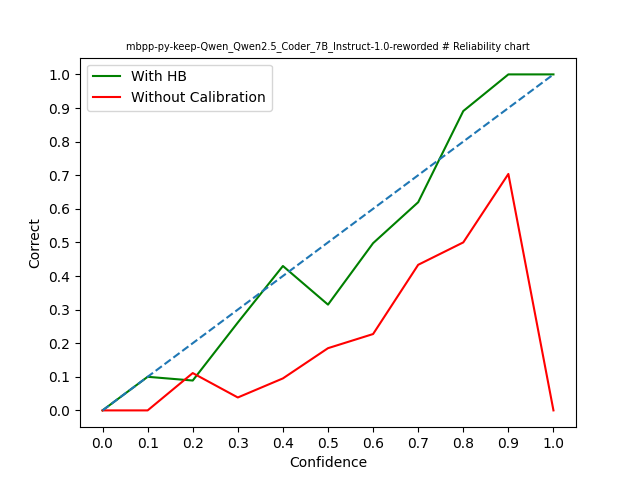
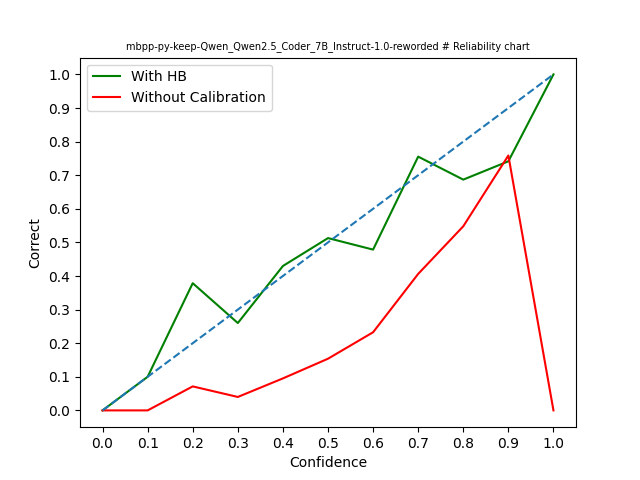
Optimized Histogramm binning with seperate class Added the option to save HB results in a table/file Score differences are saved now

diff --git a/histogramm_binning.py b/histogramm_binning.py
@@ -5,9 +5,9 @@ import argparse
 from pathlib import Path
 import os
 from sklearn.model_selection import train_test_split
-from tools import calibration_scores
-from tools import data
-from tools import create_charts
+from tools import data, create_charts, binning
+from tools.hb_calibration import hb_calibration
+from tabulate import tabulate
 
 BASE_DIR    = "/data/stud/2025-MA-kuschnereit/masterarbeit/"
 CHART_DIR = BASE_DIR+"charts_multipl_e/"
@@ -15,27 +15,9 @@ CHART_DIR = BASE_DIR+"charts_multipl_e/"
 binning_type = 'linear'
 
 DEBUG = False
-OUTPUTS = True
+OUTPUTS = False
 
 np.seterr(divide='ignore', invalid='ignore')
-
-def create_unform_grid(m):
-    return np.round(np.arange(0.0, 1+(1/m), 1/m), 2)   
-
-
-def round_model_to_grid(probs, grid):
-    # Round model to the grid (assign values to bin edges)
-    bin_assignment = []    
-
-    for f_x in probs:             
-        bin_assignment.append(np.round(grid[np.argmin(np.abs(f_x - grid))], 2))         
-    
-    return np.array(bin_assignment)
-
-def calculate_correctnes_per_bin(probs, y, assignments, grid):
-    prob_correct = np.array([np.divide(len(probs[(assignments == i) & (y == 1)]), len(probs[(assignments == i)])) for i in grid])
-    prob_correct[np.isnan(prob_correct)] = 0
-    return prob_correct
 
 def main():
     parser = argparse.ArgumentParser()
@@ -43,7 +25,7 @@ def main():
         "dirs", type=str,  help="Directories with results. ", nargs="+")
     args = parser.parse_args()
 
-    results, temperature, top_p = data.load_multipl_e_run(args.dirs[0])
+    table_print = []
 
     run_dirs = [x[0] for x in os.walk(args.dirs[0])]
     run_dirs.sort()
@@ -52,14 +34,22 @@ def main():
         # if main dir is in list just continue
         if d == args.dirs[0]:
             continue
-
+        run_entry = []
         # Get run name
         run = d.split("/runs/", 1)[1]
+        run_entry.append(run)
+
+
+        # uniform grid 1/m
+        uniform_grid = binning.create_unform_grid(10)   
+        
+        # Create calibration object
+        hb = hb_calibration(uniform_grid, OUTPUTS, DEBUG)
 
         # load the data from the run directory
         run = run.replace('/', '')
         results, temperature, top_p, num_samples = data.load_multipl_e_run(d)
-
+        run_entry.append(num_samples)
         if OUTPUTS: print(f"\nRun: {run}")
         if OUTPUTS: print(f"Temperature: {temperature}")
         if OUTPUTS: print(f"Num Problems: {num_samples}")
@@ -74,34 +64,33 @@ def main():
         if DEBUG: print(f"Training values: {train_probs}")
         if DEBUG: print(f"Test values: {test_probs}")
 
-        # uniform grid 1/m
-        uniform_grid = create_unform_grid(10)   
-        train_bin_assignments = round_model_to_grid(train_probs, uniform_grid)
+        # Calculates the deltas for the bins
+        fit_correct_per_bin, train_scores = hb.fit(train_probs, train_y)
 
-        # Calculated the mean correcteness of the assigned bins
-        if DEBUG: print(f"TRAIN Assigned Bins: {train_bin_assignments}")
-        train_correct_per_bin = calculate_correctnes_per_bin(train_probs, train_y, train_bin_assignments, uniform_grid)
+        # Uses the deltas to calculate the corrected values
+        f_dach, test_scores = hb.predict(test_probs, test_y)
 
-        if DEBUG: print(f"Uniform Grid: {uniform_grid}")
-        if DEBUG: print(f"TRAIN Correct per bin: {train_correct_per_bin}") 
-  
-        # Calculate correcteness bias in the given bin
-        delta_p_f_ =  uniform_grid - train_correct_per_bin
- 
-        if DEBUG: print(f"TEST Preditions: {test_probs}")    
-        # Test calibration
-        test_bin_assignment = round_model_to_grid(test_probs, uniform_grid)
-        if DEBUG: print(f"TEST Assigned Bins: {test_bin_assignment}")
-        test_correct_per_bin = calculate_correctnes_per_bin(test_probs, test_y, test_bin_assignment, uniform_grid)
-        if DEBUG: print(f"TEST Correct per bin: {test_correct_per_bin}")
-        if DEBUG: print(f"TRAIN Delta_p(f): {delta_p_f_}")  
-        f_dach = np.clip(test_correct_per_bin + delta_p_f_, 0, 1)
-        if DEBUG: print(f"TEST Corrected Values: {f_dach}")
+        train_scores = list(list(train_scores.values())[0].values())
+        test_scores = list(list(test_scores.values())[0].values())
+        score_difference = np.array(test_scores) - np.array(train_scores)
+
+        for d in score_difference:
+            run_entry.append(d)
+        
+        for d in train_scores:
+            run_entry.append(d)
 
         if binning_type == 'linear':
             chart_range = np.arange(0, 1.1, 0.1)
 
-        create_charts.calibration_comparision_chart(chart_range, f_dach, train_correct_per_bin ,CHART_DIR+run+"/histogramm_binning_calibration_chart_"+binning_type+".png", run)
+        create_charts.calibration_comparision_chart(chart_range, f_dach, fit_correct_per_bin, CHART_DIR+run+"/histogramm_binning_calibration_chart_"+binning_type+".png", run)
+        table_print.append(run_entry)
+        
+    table_print = tabulate(table_print, headers=['Run', 'Num_samples', 'ECE_diff', 'brier_actual_diff', 'brier_ref_diff', 'skill_score_diff', 'ECE_train', 'brier_actual_train', 'brier_ref_train', 'skill_score_train'], tablefmt='orgtbl')
+    print(table_print)
+
+    with open('results/histogramm_binning_results.txt', 'w') as f:
+        f.write(table_print)
 
 if __name__ == "__main__":
     main()

diff --git a/tools/hb_calibration.py b/tools/hb_calibration.py
@@ -1,0 +1,89 @@
+import numpy as np
+from tools import calibration_scores, binning
+from termcolor import colored
+
+class hb_calibration:
+    
+    def __init__(self, grid, outputs, debug):
+        self.grid = grid
+        self.debug = debug
+        self.outputs = outputs
+        self.delta_p_f_ = []
+        self.f_dach = []
+        self.fit_correct_per_bin = []
+
+
+    def calculate_scores(self, is_fit, probs, label, correct_per_bin, correct_count, num_samples, total_per_bin, average_bin_confidence):
+        if is_fit:
+            prefix = 'Fit'
+            color = 'cyan'
+        else:
+            prefix = 'Predict'
+            color = 'red'
+        
+        # Calculate scores for Data
+        ece = calibration_scores.ece(correct_per_bin, average_bin_confidence, total_per_bin, num_samples)
+        if self.outputs: print(f"{colored(prefix, color)} ECE: {ece}")
+
+        brier_actual = calibration_scores.brier_actual(probs, label, num_samples)
+        if self.outputs: print(f"{colored(prefix, color)} Brier actual: {brier_actual}")
+
+        p_r, brier_ref = calibration_scores.brier_ref(correct_count, num_samples)
+        if self.outputs: print(f"{colored(prefix, color)} Baseline: {p_r}")
+        if self.outputs: print(f"{colored(prefix, color)} Brier ref: {brier_ref}")
+
+        skill_score = calibration_scores.skill_score(brier_ref, brier_actual)
+        if self.outputs: print(f"{colored(prefix, color)} Skill Score: {skill_score}\n") 
+
+        results =   {
+                        prefix: {
+                            "ECE": ece,
+                            "Brier actual": brier_actual,
+                            "Brier ref": brier_ref,
+                            "Skill Score": skill_score
+                        } 
+                    }  
+
+        return results
+
+ 
+    def fit(self, X, y):
+        num_samples = len(X)
+        correct_count = np.count_nonzero(y == 1)
+        train_bin_assignments = binning.round_model_to_grid(X, self.grid)
+
+        # Calculated the mean correcteness of the assigned bins
+        if self.debug: print(f"TRAIN Assigned Bins: {train_bin_assignments}")
+        total_per_bin, fit_correct_per_bin, average_bin_confidence = binning.bin_round_probabilities(train_bin_assignments, X, y, self.grid)
+
+        if self.debug: print(f"Uniform Grid: {self.grid}")
+        if self.debug: print(f"TRAIN Correct per bin: {fit_correct_per_bin}") 
+
+        scores = self.calculate_scores(True, X, y, fit_correct_per_bin, correct_count, num_samples, total_per_bin, average_bin_confidence)
+
+        # Calculate correcteness bias in the given bin
+        self.delta_p_f_ =  self.grid - fit_correct_per_bin
+
+        if self.outputs: print(f"{colored('Deltas', 'green')}: {self.delta_p_f_}\n")
+
+        return fit_correct_per_bin, scores
+
+    def predict(self, X, y):
+        num_samples = len(X)
+        correct_count = np.count_nonzero(y == 1)
+
+        if self.debug: print(f"TEST Preditions: {X}")    
+
+        bin_assignment = binning.round_model_to_grid(X, self.grid)
+        if self.debug: print(f"TEST Assigned Bins: {bin_assignment}")
+
+        total_per_bin, correct_per_bin, average_bin_confidence = binning.bin_round_probabilities(bin_assignment, X, y, self.grid)
+
+        if self.debug: print(f"TEST Correct per bin: {correct_per_bin}")
+
+        scores = self.calculate_scores(False, X, y, correct_per_bin, correct_count, num_samples, total_per_bin, average_bin_confidence)
+
+        f_dach = np.clip(correct_per_bin + self.delta_p_f_, 0, 1)
+        if self.debug: print(f"TEST Corrected Values: {f_dach}")
+
+        return f_dach, scores

diff --git a/tools/binning.py b/tools/binning.py
@@ -1,7 +1,22 @@
 import numpy as np
 
+def create_unform_grid(m):
+    return np.round(np.arange(0.0, 1+(1/m), 1/m), 2)   
 
-def bin_probabilities(bin_ranges, probs, is_correct):
+
+def round_model_to_grid(probs, grid):
+    # Round model to the grid (assign values to bin edges)
+    bin_assignment = []    
+
+    for f_x in probs:             
+        bin_assignment.append(np.round(grid[np.argmin(np.abs(f_x - grid))], 2))         
+    
+    return np.array(bin_assignment)
+
+"""
+    Calculates the needed values for a given bin ranges and assigns the value to the bin if it lies between
+"""
+def bin_range_probabilities(bin_ranges, probs, is_correct):
 
     # convert bin edges to np array
     bin_ranges = np.array(bin_ranges)
@@ -29,3 +44,24 @@ def bin_probabilities(bin_ranges, probs, is_correct):
     average_bin_confidence = np.divide(bin_sums, total_per_bin, where=np.array(total_per_bin)!=0)
 
     return total_per_bin, correct_per_bin, average_bin_confidence, chart_range, bar_width
+
+"""
+    Calculates the bin probabilities with a list of assigned bins
+"""
+def bin_round_probabilities(assigend_bins, probs, is_correct, grid):
+    
+    # calculate the total correct per bin
+    correct_per_bin = np.array([np.divide(len(probs[(assigend_bins == i) & (is_correct == 1)]), len(probs[(assigend_bins == i)])) for i in grid])
+    correct_per_bin[np.isnan(correct_per_bin)] = 0
+    
+    # calculate the total count per bin
+    total_per_bin = np.array([len(probs[(assigend_bins == i)]) for i in grid])
+    total_per_bin[np.isnan(total_per_bin)] = 0
+    
+    # sum the probabilities per bin
+    bin_sums = np.array([probs[assigend_bins == i].sum() for i in grid])
+
+    # calculate the average confidence per bin
+    average_bin_confidence = np.divide(bin_sums, total_per_bin, where=np.array(total_per_bin)!=0)
+
+    return total_per_bin, correct_per_bin, average_bin_confidence

diff --git a/tools/calibration_scores.py b/tools/calibration_scores.py
@@ -25,7 +25,7 @@ def ece(P_correct, average_bin_confidence, total_bin_count, num_samples):
 """
 def brier_ref(correct_sample_count, num_samples):
     p_r = correct_sample_count / num_samples
-    return p_r, p_r * (1-p_r)
+    return np.round(p_r, 2) ,np.round(p_r * (1-p_r), 2)
 
 """
     Caculates the actual brier score for the given data.
@@ -48,5 +48,5 @@ def brier_actual(prediction_prob_list, is_correct, num_problems):
     brier_actual: Actual brier score of the dataset
 """
 def skill_score(brier_ref, brier_actual):
-    return(brier_ref-brier_actual)/brier_ref
+    return np.round((brier_ref-brier_actual)/brier_ref, 2)
 

diff --git a/calculate_scores.py b/calculate_scores.py
@@ -61,7 +61,7 @@ def main():
         elif binning_type == 'linear':
             bin_ranges = np.arange(0, 1+binning_step_size, binning_step_size)
 
-        total_per_bin, correct_per_bin, average_bin_confidence, chart_range, bar_width = binning.bin_probabilities(bin_ranges, probs, is_correct)
+        total_per_bin, correct_per_bin, average_bin_confidence, chart_range, bar_width = binning.bin_range_probabilities(bin_ranges, probs, is_correct)
            
         fail_bin_count =  total_per_bin - correct_per_bin
 
